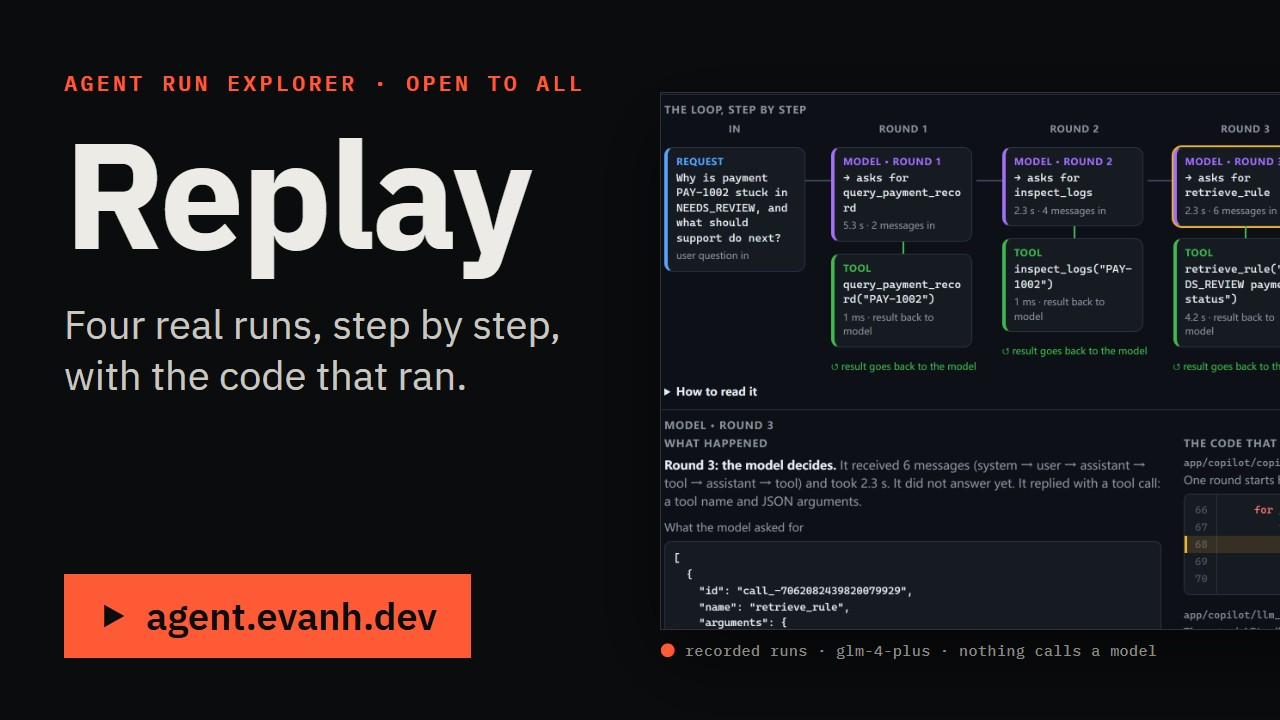
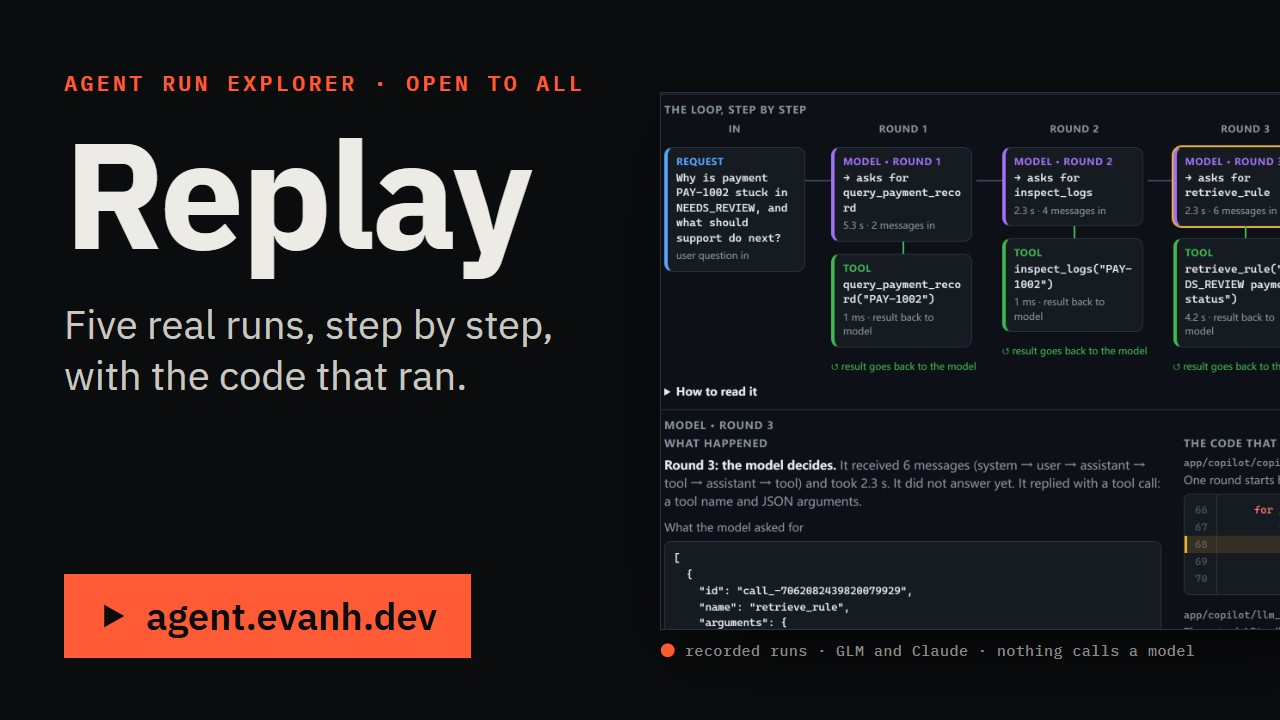
README: walkthrough cover row; the replay now has five runs
Adds the walkthrough's cover in its own row under the film, the same width as the film cover, linking to
agent.evanh.dev/walkthrough/ (Chinese README: Chinese cover, /zh/walkthrough/), with a short paragraph.
The replay gained a fifth recorded run (one on Claude), so the replay card and text now say five.

Changed region(s): [[0.0625, 0.4278, 0.4375, 0.4889], [0.6562, 0.8861, 0.9375, 0.9167]]

diff --git a/README.zh-CN.md b/README.zh-CN.md
@@ -26,11 +26,20 @@ Payment Reconciliation Engine（支付对账引擎）把三个模拟支付渠道
 
 <table>
 <tr>
-<td><a href="https://agent.evanh.dev/zh/"><img src="docs/explorer-replay.zh.jpg" alt="Agent Run Explorer 回放版：Copilot 工具调用循环的四次录制运行，人人可看" width="416"></a></td>
+<td><a href="https://agent.evanh.dev/zh/walkthrough/"><img src="docs/walkthrough.zh.jpg" alt="播放《一次真实运行，逐行讲解》：1 分 29 秒的讲解动画，一次真实的 Copilot 运行和每一步跑的代码" width="520"></a></td>
+</tr>
+<tr>
+<td align="center"><a href="https://agent.evanh.dev/zh/walkthrough/">讲解动画：一次真实运行，逐行讲解，1 分 29 秒</a></td>
+</tr>
+</table>
+
+<table>
+<tr>
+<td><a href="https://agent.evanh.dev/zh/"><img src="docs/explorer-replay.zh.jpg" alt="Agent Run Explorer 回放版：Copilot 工具调用循环的五次录制运行，人人可看" width="416"></a></td>
 <td><a href="https://agent-live.evanh.dev/live/zh/"><img src="docs/explorer-live.zh.jpg" alt="Agent Run Explorer 实时版：问你自己的问题，GLM、Claude 或 GPT 当场跑，仅限受邀" width="416"></a></td>
 </tr>
 <tr>
-<td align="center"><a href="https://agent.evanh.dev/zh/">回放：四次录制的运行，人人可看</a></td>
+<td align="center"><a href="https://agent.evanh.dev/zh/">回放：五次录制的运行，人人可看</a></td>
 <td align="center"><a href="https://agent-live.evanh.dev/live/zh/">实时：问你自己的问题，仅限受邀</a></td>
 </tr>
 </table>
@@ -40,9 +49,13 @@ Payment Reconciliation Engine（支付对账引擎）把三个模拟支付渠道
 代码层面的闸门重新跑测试并拒绝了它；FC011 里那个时间戳 bug 被放回去，再跑一遍。英文旁白（合成语音），带字幕。
 支付渠道是模拟的。
 
+**讲解动画：** [一次真实运行，逐行讲解](https://agent.evanh.dev/zh/walkthrough/)（[English](https://agent.evanh.dev/walkthrough/)）
+——1 分 29 秒：第 2 层 Copilot 的循环用 Claude 真实跑的一次，2026 年 11 月 20 日录制，每一步配上当时跑的代码。
+画面上的每个数字都来自这次运行的记录。英文旁白（合成语音），中英字幕。
+
 **互动演示：** [Agent Run Explorer](https://agent.evanh.dev/zh/)（[English](https://agent.evanh.dev/)）
 ——第 2 层 Copilot 工具调用循环的每一步，配上它处理的数据和当时跑到的本仓库代码（提交 `e15bf65`）。
-回放版是用 glm-4-plus 录制的四次运行，不调用模型；实时版（仅限受邀）用 GLM、Claude 或 GPT 当场跑一个新问题。
+回放版是五次录制的运行（四次 glm-4-plus，一次 Claude），不调用模型；实时版（仅限受邀）用 GLM、Claude 或 GPT 当场跑一个新问题。
 付款数据是模拟的。
 
 ## 目录

diff --git a/README.md b/README.md
@@ -26,11 +26,20 @@ This repository is a curated snapshot of a larger project: selected source for a
 
 <table>
 <tr>
-<td><a href="https://agent.evanh.dev/"><img src="docs/explorer-replay.jpg" alt="Agent Run Explorer, replay: four recorded runs of the Copilot's tool-calling loop, open to all" width="416"></a></td>
+<td><a href="https://agent.evanh.dev/walkthrough/"><img src="docs/walkthrough.jpg" alt="Play One real run, line by line: a 1:29 narrated walkthrough of one real Copilot run and the code that ran each step" width="520"></a></td>
+</tr>
+<tr>
+<td align="center"><a href="https://agent.evanh.dev/walkthrough/">Walkthrough: one real run, line by line, 1:29</a></td>
+</tr>
+</table>
+
+<table>
+<tr>
+<td><a href="https://agent.evanh.dev/"><img src="docs/explorer-replay.jpg" alt="Agent Run Explorer, replay: five recorded runs of the Copilot's tool-calling loop, open to all" width="416"></a></td>
 <td><a href="https://agent-live.evanh.dev/"><img src="docs/explorer-live.jpg" alt="Agent Run Explorer, live mode: ask your own question and GLM, Claude or GPT runs it, invite only" width="416"></a></td>
 </tr>
 <tr>
-<td align="center"><a href="https://agent.evanh.dev/">Replay: four recorded runs, open to all</a></td>
+<td align="center"><a href="https://agent.evanh.dev/">Replay: five recorded runs, open to all</a></td>
 <td align="center"><a href="https://agent-live.evanh.dev/">Live: your own question, invite only</a></td>
 </tr>
 </table>
@@ -40,9 +49,13 @@ This repository is a curated snapshot of a larger project: selected source for a
 the code-level gate re-runs the tests and refuses it, and the timestamp bug from FC011 is put back and run again.
 English narration (synthetic voice) with captions. The payment channels are simulated.
 
+**Walkthrough:** [One real run, line by line](https://agent.evanh.dev/walkthrough/) ([中文](https://agent.evanh.dev/zh/walkthrough/))
+— 1:29: one real Claude run of the Layer 2 Copilot's loop, recorded on 20 November 2026, with the code that ran each step.
+Every number on screen comes from the run record. English narration (synthetic voice), English and Chinese subtitles.
+
 **Interactive demo:** [Agent Run Explorer](https://agent.evanh.dev/) ([中文](https://agent.evanh.dev/zh/))
 — each step of the Layer 2 Copilot's tool-calling loop, with the data it handled and the lines of this repository's code (commit `e15bf65`) that ran.
-The replay shows four runs recorded with glm-4-plus and calls no model; live mode (invite only) runs a new question on GLM, Claude or GPT.
+The replay shows five recorded runs (four on glm-4-plus, one on Claude) and calls no model; live mode (invite only) runs a new question on GLM, Claude or GPT.
 The payment data is simulated.
 
 ## Contents
